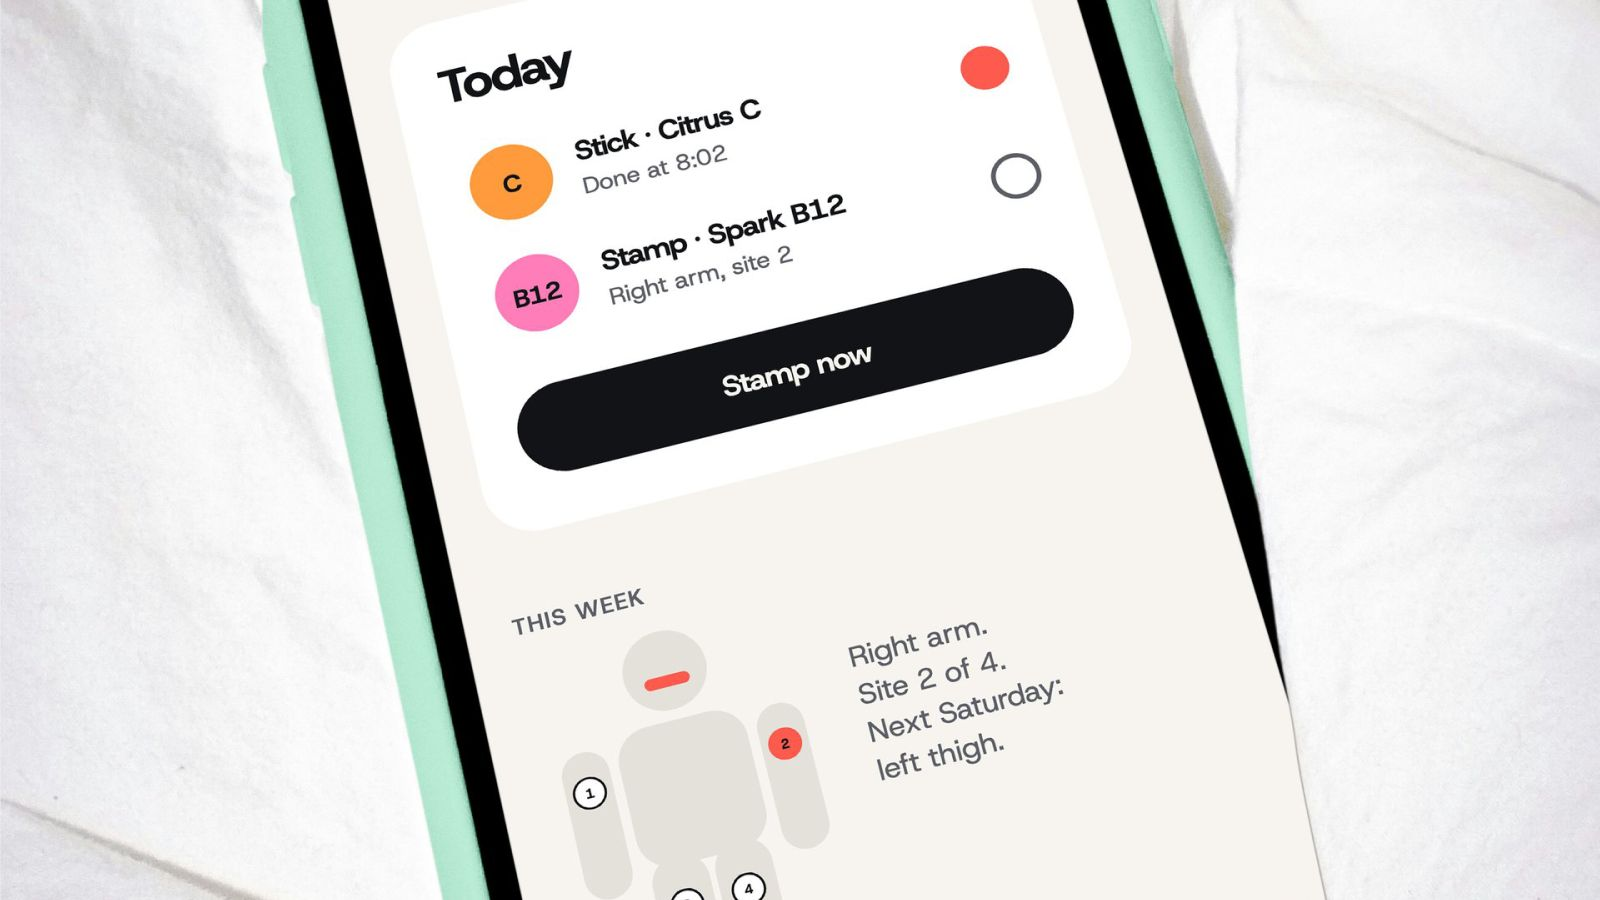
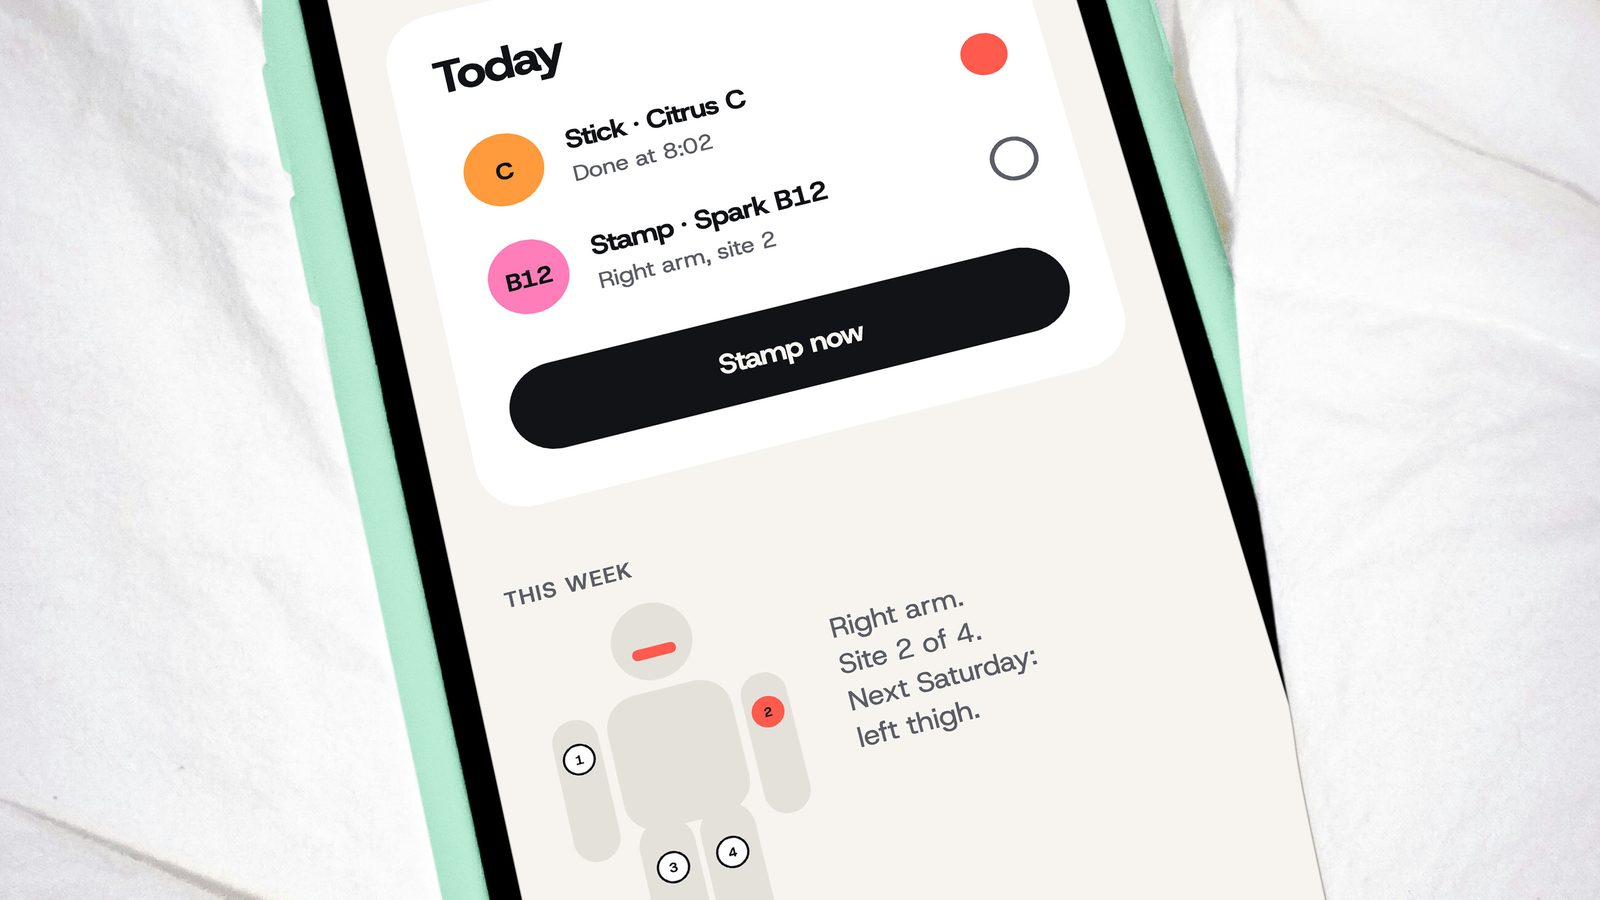
Phones are iPhone 17 Pro: prototype frame at 402x874pt screen with Dynamic Island, status bar, home indicator; new phone photos

diff --git a/css/site.css b/css/site.css
@@ -278,12 +278,29 @@ body.still .foot .morse svg { animation: none; }
 .band.ink .screen .btn-ink { background: var(--ink); color: var(--paper); border-color: var(--ink); }
 
 /* ---------- app prototype ---------- */
-.proto { display: grid; grid-template-columns: minmax(0, 400px) minmax(0, 1fr); gap: 32px clamp(32px, 6vw, 96px); align-items: start; justify-content: center; }
+.proto { display: grid; grid-template-columns: minmax(0, 420px) minmax(0, 1fr); gap: 32px clamp(32px, 6vw, 96px); align-items: start; justify-content: center; container-type: inline-size; }
 @media (max-width: 860px) { .proto { grid-template-columns: minmax(0, 1fr); justify-items: center; } }
-.proto-phone { width: 100%; max-width: 400px; }
-.app-screen { aspect-ratio: 390 / 820; padding: 0; gap: 0; background: var(--paper); font-size: 15px; line-height: 1.4; }
-.sbar { display: flex; justify-content: space-between; align-items: center; padding: 16px 24px 6px; font-size: 14px; font-weight: 600; flex: none; }
-.sb-r { display: flex; gap: 4px; } .sb-r i { width: 16px; height: 9px; border-radius: 3px; background: currentColor; opacity: .85; } .sb-r i:first-child { width: 9px; border-radius: 50%; }
+/* iPhone 17 Pro, front. Every size is in iPhone points (--u = 1pt): 440 x 906 overall with buttons,
+   body 434 x 906, screen 402 x 874 at (19, 16) with 62pt corners, Dynamic Island 125 x 37, 11pt below the screen top. */
+.proto-phone { --pw: min(420px, 100cqw); --u: calc(var(--pw) / 440); width: var(--pw); max-width: none; position: relative; isolation: isolate;
+  padding: calc(16 * var(--u)) calc(19 * var(--u)); border-radius: 0;
+  --metal-l: #F4F5F6; --metal: #D5D7DA; --metal-d: #A6A9AD; --btn: linear-gradient(90deg, var(--metal-d), var(--metal) 50%, var(--metal-l));
+  background:
+    var(--btn) left 0 top calc(168 * var(--u)) / calc(5 * var(--u)) calc(34 * var(--u)) no-repeat,
+    var(--btn) left 0 top calc(232 * var(--u)) / calc(5 * var(--u)) calc(62 * var(--u)) no-repeat,
+    var(--btn) left 0 top calc(310 * var(--u)) / calc(5 * var(--u)) calc(62 * var(--u)) no-repeat,
+    var(--btn) right 0 top calc(252 * var(--u)) / calc(5 * var(--u)) calc(98 * var(--u)) no-repeat,
+    linear-gradient(var(--metal-d), var(--metal-d)) right calc(.5 * var(--u)) top calc(540 * var(--u)) / calc(4 * var(--u)) calc(64 * var(--u)) no-repeat; }
+.proto-phone::before { content: ""; position: absolute; z-index: -1; inset: 0 calc(3 * var(--u)); border-radius: calc(77 * var(--u));
+  border: calc(6 * var(--u)) solid transparent;
+  background: linear-gradient(#0A0A0B, #0A0A0B) padding-box, linear-gradient(90deg, var(--metal-l), var(--metal) 8%, var(--metal-d) 50%, var(--metal) 92%, var(--metal-l)) border-box; }
+.proto-phone::after { content: ""; position: absolute; z-index: 6; top: calc(27 * var(--u)); left: 50%; width: calc(125 * var(--u)); height: calc(37 * var(--u)); transform: translateX(-50%); border-radius: 99px;
+  background: radial-gradient(circle at calc(104.5 * var(--u)) 50%, #3A4A6B 0 calc(1.5 * var(--u)), #11151F calc(1.6 * var(--u)) calc(5.5 * var(--u)), transparent calc(5.6 * var(--u))), #000; pointer-events: none; }
+.app-screen { aspect-ratio: 402 / 874; border-radius: calc(62 * var(--u)); padding: 0; gap: 0; background: var(--paper); font-size: 15px; line-height: 1.4; }
+.app-screen::after { content: ""; position: absolute; z-index: 6; left: 50%; bottom: calc(8 * var(--u)); width: calc(139 * var(--u)); height: calc(5 * var(--u)); transform: translateX(-50%); border-radius: 99px; background: var(--ink); pointer-events: none; }
+.sbar { display: grid; grid-template-columns: calc(138.5 * var(--u)) 1fr calc(138.5 * var(--u)); align-items: center; height: calc(54 * var(--u)); padding-top: calc(5 * var(--u)); font-size: calc(17 * var(--u)); font-weight: 600; letter-spacing: -.02em; flex: none; }
+.sbar > span:first-child { justify-self: center; }
+.sb-r { grid-column: 3; justify-self: center; display: flex; } .sb-r svg { width: calc(72 * var(--u)); height: auto; display: block; }
 .views { flex: 1; min-height: 0; overflow-y: auto; overscroll-behavior: contain; scrollbar-width: none; }
 .views::-webkit-scrollbar { display: none; }
 .view { padding: 8px 18px 20px; display: grid; gap: 14px; align-content: start; }
@@ -304,7 +321,7 @@ body.still .foot .morse svg { animation: none; }
 .wide { width: 100%; justify-content: center; padding: 13px 18px; font-size: 15px; }
 .note { font-size: 13px; color: var(--ink70); }
 .streak { display: flex; gap: 6px; } .streak b { height: 10px; flex: 1; border-radius: 5px; background: var(--line); }
-.apptabs { flex: none; display: grid; grid-template-columns: repeat(4, 1fr); background: var(--white); padding: 8px 4px 18px; border-top: 1px solid var(--line); }
+.apptabs { flex: none; display: grid; grid-template-columns: repeat(4, 1fr); background: var(--white); padding: 8px 4px calc(26 * var(--u)); border-top: 1px solid var(--line); }
 .apptabs button { font: inherit; font-size: 12px; font-weight: 600; color: var(--ink60); background: none; border: 0; display: grid; justify-items: center; gap: 4px; padding: 6px 0; cursor: pointer; border-radius: 12px; }
 .apptabs button[aria-selected="true"] { color: var(--ink); }
 .apptabs button[aria-selected="true"] .ti { background: var(--ink); }

diff --git a/app.html b/app.html
@@ -8,7 +8,7 @@
 <meta name="description" content="Try the Affix app: take today's Stick, stamp this week's site, check the month and change your doses.">
 <link rel="preconnect" href="https://fonts.googleapis.com"><link rel="preconnect" href="https://fonts.gstatic.com" crossorigin>
 <link href="https://fonts.googleapis.com/css2?family=Host+Grotesk:wght@400;500;600;700;800&display=swap" rel="stylesheet">
-<link rel="stylesheet" href="css/site.css?v=20261027c">
+<link rel="stylesheet" href="css/site.css?v=20261028a">
 </head>
 <body data-page="app">
 <a class="skip" href="#main">Skip to content</a>
@@ -23,7 +23,7 @@
     <div class="proto">
       <div class="phone proto-phone">
         <div class="screen app-screen" id="screen" aria-label="Affix app">
-          <div class="sbar"><span>9:41</span><span class="sb-r" aria-hidden="true"><i></i><i></i><i></i></span></div>
+          <div class="sbar"><span>9:41</span><span class="sb-r" aria-hidden="true"><svg viewBox="0 0 72 13" aria-hidden="true"><g fill="currentColor"><rect x="0" y="8" width="3" height="4" rx="1"/><rect x="4.5" y="6" width="3" height="6" rx="1"/><rect x="9" y="3.5" width="3" height="8.5" rx="1"/><rect x="13.5" y="1" width="3" height="11" rx="1"/><path d="M29.75 11.5 27.49 9.24A3.2 3.2 0 0 1 32.01 9.24Z"/><rect x="46.5" y="2.5" width="20" height="8" rx="2.3"/><path d="M70 4.5C71 4.8 71.5 5.5 71.5 6.5S71 8.2 70 8.5Z" opacity=".45"/></g><g fill="none" stroke="currentColor" stroke-linecap="round"><path d="M25.37 7.12A6.2 6.2 0 0 1 34.13 7.12" stroke-width="2"/><path d="M22.68 4.43A10 10 0 0 1 36.82 4.43" stroke-width="2"/><rect x="44.5" y=".5" width="24" height="12" rx="3.8" stroke-opacity=".4"/></g></svg></span></div>
           <div class="views" id="views"></div>
           <nav class="apptabs" role="tablist" aria-label="App sections">
             <button type="button" role="tab" data-tab="today"><span class="ti ti-today"></span>Today</button>
@@ -60,9 +60,9 @@
   <footer class="band ink" id="foot"></footer>
 </div></main>
 <script src="https://cdnjs.cloudflare.com/ajax/libs/gsap/3.12.5/gsap.min.js"></script>
-<script src="js/brand.js?v=20261027c"></script>
-<script src="js/site.js?v=20261027c"></script>
-<script src="js/assistant.js?v=20261027c"></script>
-<script src="js/app.js?v=20261027c"></script>
+<script src="js/brand.js?v=20261028a"></script>
+<script src="js/site.js?v=20261028a"></script>
+<script src="js/assistant.js?v=20261028a"></script>
+<script src="js/app.js?v=20261028a"></script>
 </body>
 </html>

diff --git a/js/home.js b/js/home.js
@@ -36,7 +36,7 @@
   const box = `<svg viewBox="0 0 160 120"><rect x="10" y="20" width="140" height="90" rx="16" fill="${C.mint}"/>${B.put(B.wordmark(), 36, 52, 88, 40)}</svg>`;
   const tongue = `<svg viewBox="0 0 160 120"><ellipse cx="80" cy="64" rx="70" ry="50" fill="${C.tongue}"/><rect x="28" y="50" width="104" height="28" rx="14" fill="${B.D.citrus.color}" transform="rotate(-10 80 64)"/></svg>`;
   const stamp = `<svg viewBox="0 0 160 120"><rect x="44" y="0" width="72" height="140" rx="36" fill="#C68A63"/><circle cx="80" cy="76" r="16" fill="${B.D.spark.color}"/>${B.put(B.applicator('spark'), 92, 0, 36, 84, 16)}</svg>`;
-  const phone = `<svg viewBox="0 0 160 120"><rect x="46" y="0" width="68" height="120" rx="14" fill="${C.paper}"/>${B.put(B.bodyMap({ site: 2, numbers: false }), 52, 14, 56, 82)}</svg>`;
+  const phone = `<svg viewBox="0 0 160 120"><rect x="51.25" y="0" width="57.5" height="120" rx="10.2" fill="${C.paper}"/><rect x="71.7" y="3.6" width="16.6" height="4.9" rx="2.45" fill="${C.ink}"/>${B.put(B.bodyMap({ site: 2, numbers: false }), 54, 18, 52, 80)}</svg>`;
   const steps = [[box, 'Refills arrive', 'A small box each month: a Stick pack and four Stamp cartridges.'], [tongue, 'Stick a strip', 'Every morning. Press one strip onto your tongue.'], [stamp, 'Stamp a site', 'Once a week, on the arm or thigh the app picks.'], [phone, 'Track it', 'The app logs both and shows what comes next.']];
   $('#steps').innerHTML = steps.map(([ic, h, p], i) => `<li><div class="ic" aria-hidden="true">${ic}</div><span class="n">Step ${i + 1}</span><h3>${h}</h3><p>${p}</p></li>`).join('');
 

diff --git a/about.html b/about.html
@@ -8,7 +8,7 @@
 <meta name="description" content="Why Affix replaces pills with a tongue strip and a press-on Stamp, how the identity works, and the brand out in the world.">
 <link rel="preconnect" href="https://fonts.googleapis.com"><link rel="preconnect" href="https://fonts.gstatic.com" crossorigin>
 <link href="https://fonts.googleapis.com/css2?family=Host+Grotesk:wght@400;500;600;700;800&display=swap" rel="stylesheet">
-<link rel="stylesheet" href="css/site.css?v=20261027c">
+<link rel="stylesheet" href="css/site.css?v=20261028a">
 </head>
 <body data-page="about">
 <a class="skip" href="#main">Skip to content</a>
@@ -52,10 +52,10 @@
 
   <footer class="band ink" id="foot"></footer>
 </div></main>
-<script src="js/brand.js?v=20261027c"></script>
-<script src="js/site.js?v=20261027c"></script>
-<script src="js/assistant.js?v=20261027c"></script>
-<script src="js/photos.js?v=20261027c"></script>
-<script src="js/about.js?v=20261027c"></script>
+<script src="js/brand.js?v=20261028a"></script>
+<script src="js/site.js?v=20261028a"></script>
+<script src="js/assistant.js?v=20261028a"></script>
+<script src="js/photos.js?v=20261028a"></script>
+<script src="js/about.js?v=20261028a"></script>
 </body>
 </html>

diff --git a/index.html b/index.html
@@ -8,7 +8,7 @@
 <meta name="description" content="Affix is a vitamin brand with no pills: a strip that melts on the tongue every day, and a press-on Stamp for the arm or thigh once a week.">
 <link rel="preconnect" href="https://fonts.googleapis.com"><link rel="preconnect" href="https://fonts.gstatic.com" crossorigin>
 <link href="https://fonts.googleapis.com/css2?family=Host+Grotesk:wght@400;500;600;700;800&display=swap" rel="stylesheet">
-<link rel="stylesheet" href="css/site.css?v=20261027c">
+<link rel="stylesheet" href="css/site.css?v=20261028a">
 </head>
 <body data-page="home">
 <a class="skip" href="#main">Skip to content</a>
@@ -77,9 +77,9 @@
   <footer class="band ink" id="foot"></footer>
 </div></main>
 <script src="https://cdnjs.cloudflare.com/ajax/libs/gsap/3.12.5/gsap.min.js"></script>
-<script src="js/brand.js?v=20261027c"></script>
-<script src="js/site.js?v=20261027c"></script>
-<script src="js/assistant.js?v=20261027c"></script>
-<script src="js/home.js?v=20261027c"></script>
+<script src="js/brand.js?v=20261028a"></script>
+<script src="js/site.js?v=20261028a"></script>
+<script src="js/assistant.js?v=20261028a"></script>
+<script src="js/home.js?v=20261028a"></script>
 </body>
 </html>

diff --git a/range.html b/range.html
@@ -8,7 +8,7 @@
 <meta name="description" content="Six Affix doses: three Stick strips for the tongue and three Stamp cartridges for the arm or thigh. Build a month from them.">
 <link rel="preconnect" href="https://fonts.googleapis.com"><link rel="preconnect" href="https://fonts.gstatic.com" crossorigin>
 <link href="https://fonts.googleapis.com/css2?family=Host+Grotesk:wght@400;500;600;700;800&display=swap" rel="stylesheet">
-<link rel="stylesheet" href="css/site.css?v=20261027c">
+<link rel="stylesheet" href="css/site.css?v=20261028a">
 </head>
 <body data-page="range">
 <a class="skip" href="#main">Skip to content</a>
@@ -49,9 +49,9 @@
 
   <footer class="band ink" id="foot"></footer>
 </div></main>
-<script src="js/brand.js?v=20261027c"></script>
-<script src="js/site.js?v=20261027c"></script>
-<script src="js/assistant.js?v=20261027c"></script>
-<script src="js/range.js?v=20261027c"></script>
+<script src="js/brand.js?v=20261028a"></script>
+<script src="js/site.js?v=20261028a"></script>
+<script src="js/assistant.js?v=20261028a"></script>
+<script src="js/range.js?v=20261028a"></script>
 </body>
 </html>

diff --git a/js/app.js b/js/app.js
@@ -107,6 +107,10 @@
 
   /* ---------- render ---------- */
   const screen = $('#screen'), views = $('#views');
+  // The screen is drawn at iPhone 17 Pro proportions. On a small viewport, shrink the app content with it
+  // so a narrow page shows the same layout as the 384px desktop screen instead of rewrapping.
+  function fitScreen() { const z = Math.min(1, screen.clientWidth / 384); [views, $('.apptabs'), $('#overlay')].forEach(el => { el.style.zoom = z < 1 ? z.toFixed(3) : ''; }); }
+  fitScreen(); addEventListener('resize', fitScreen);
   function render() {
     const v = S.sub || S.view;
     views.innerHTML = { today: vToday, stamp: vStamp, sites: vSites, month: vMonth, me: vMe }[v]();
